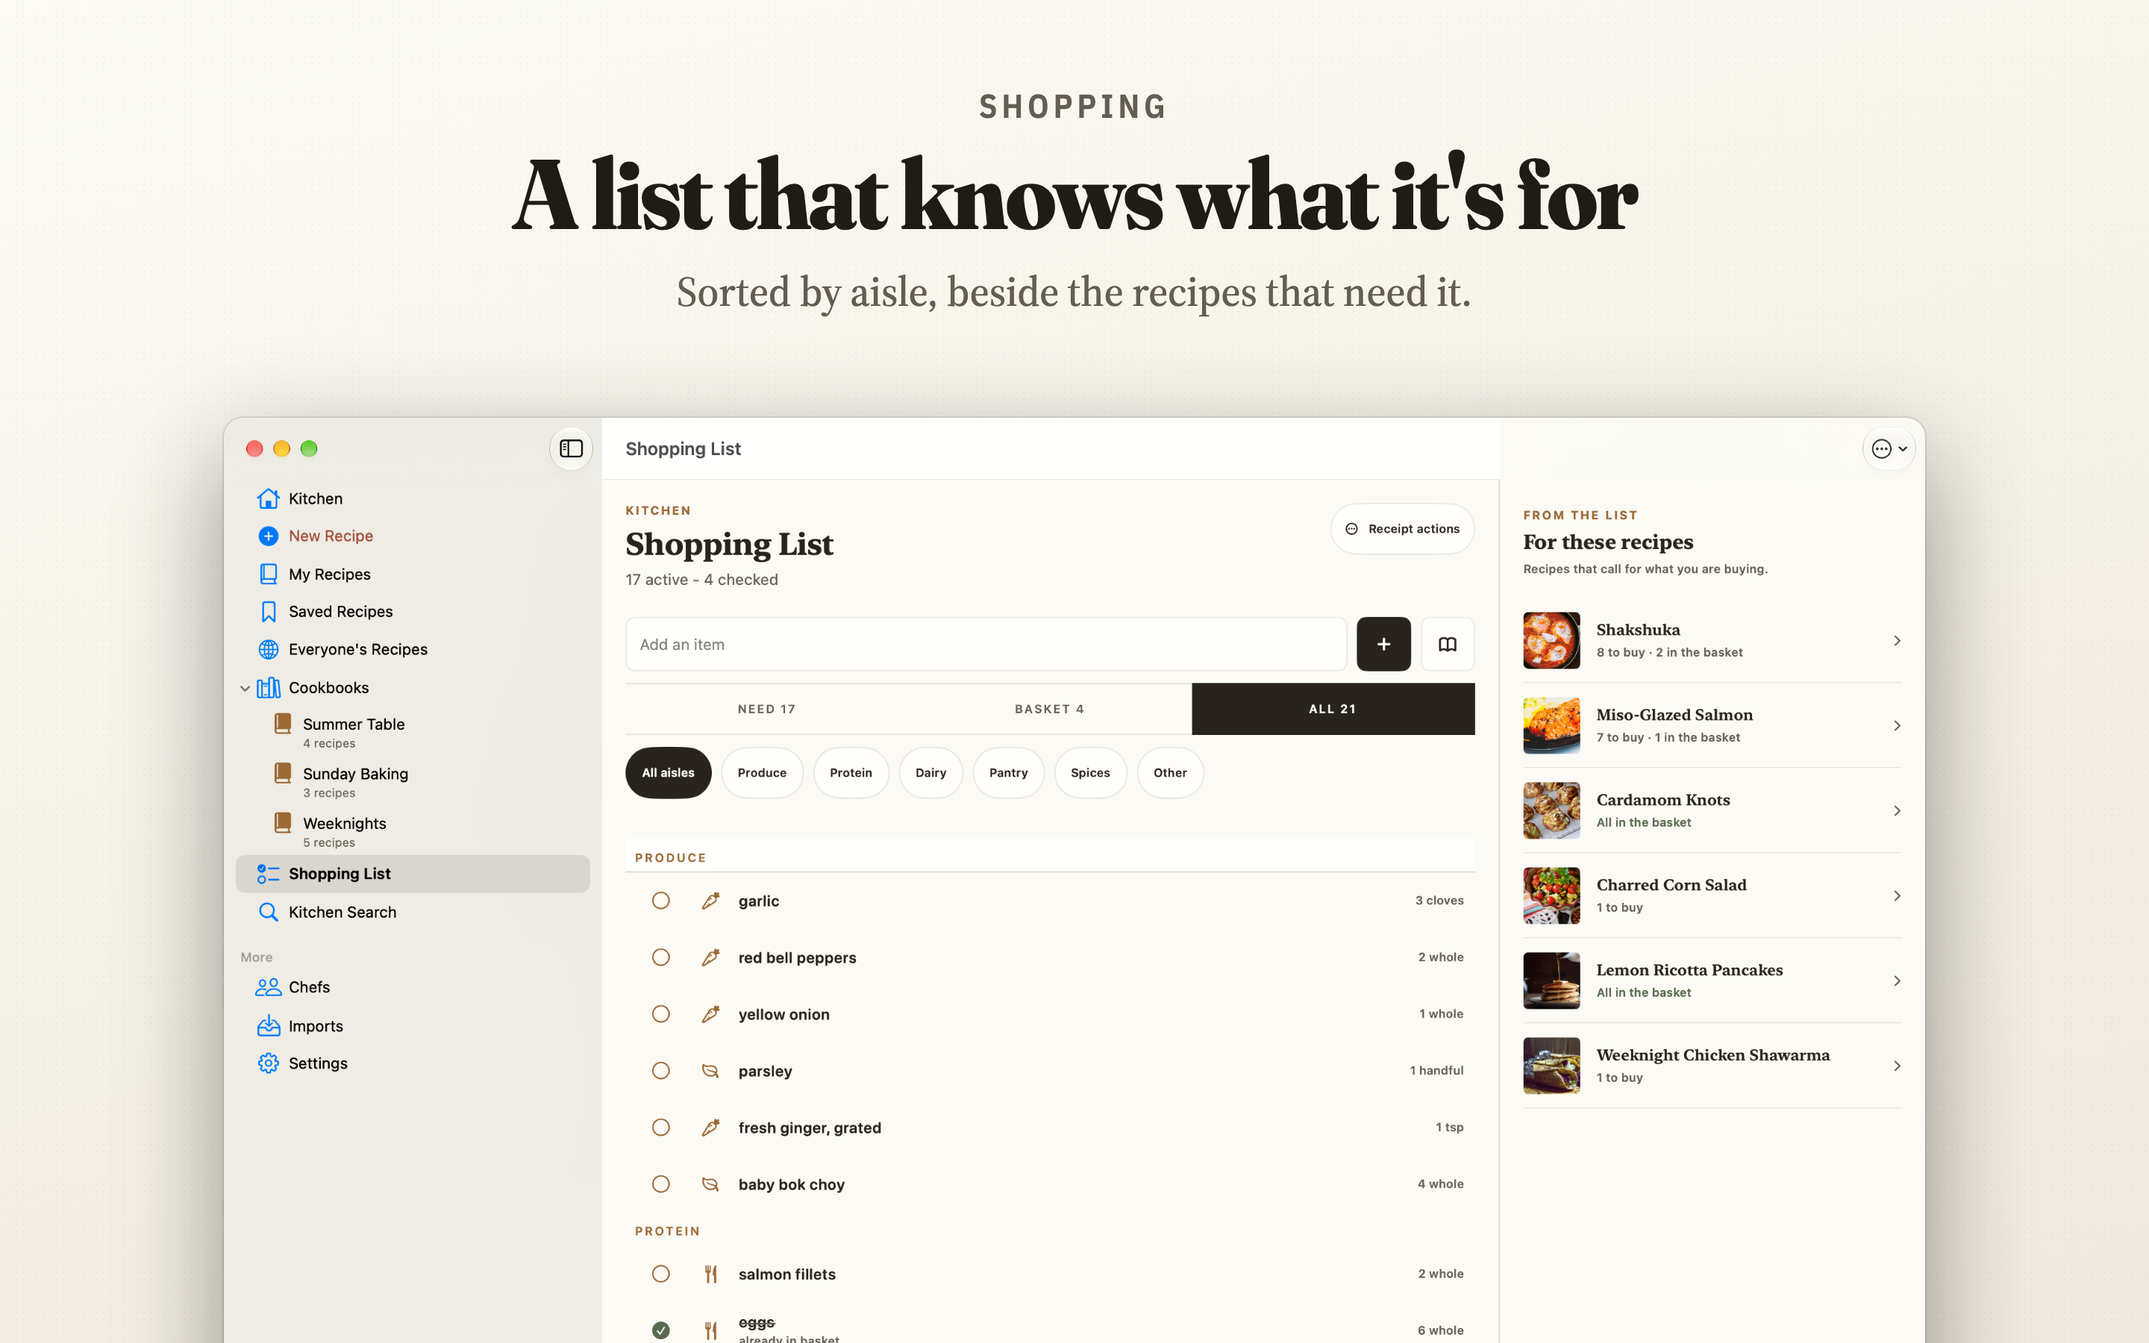
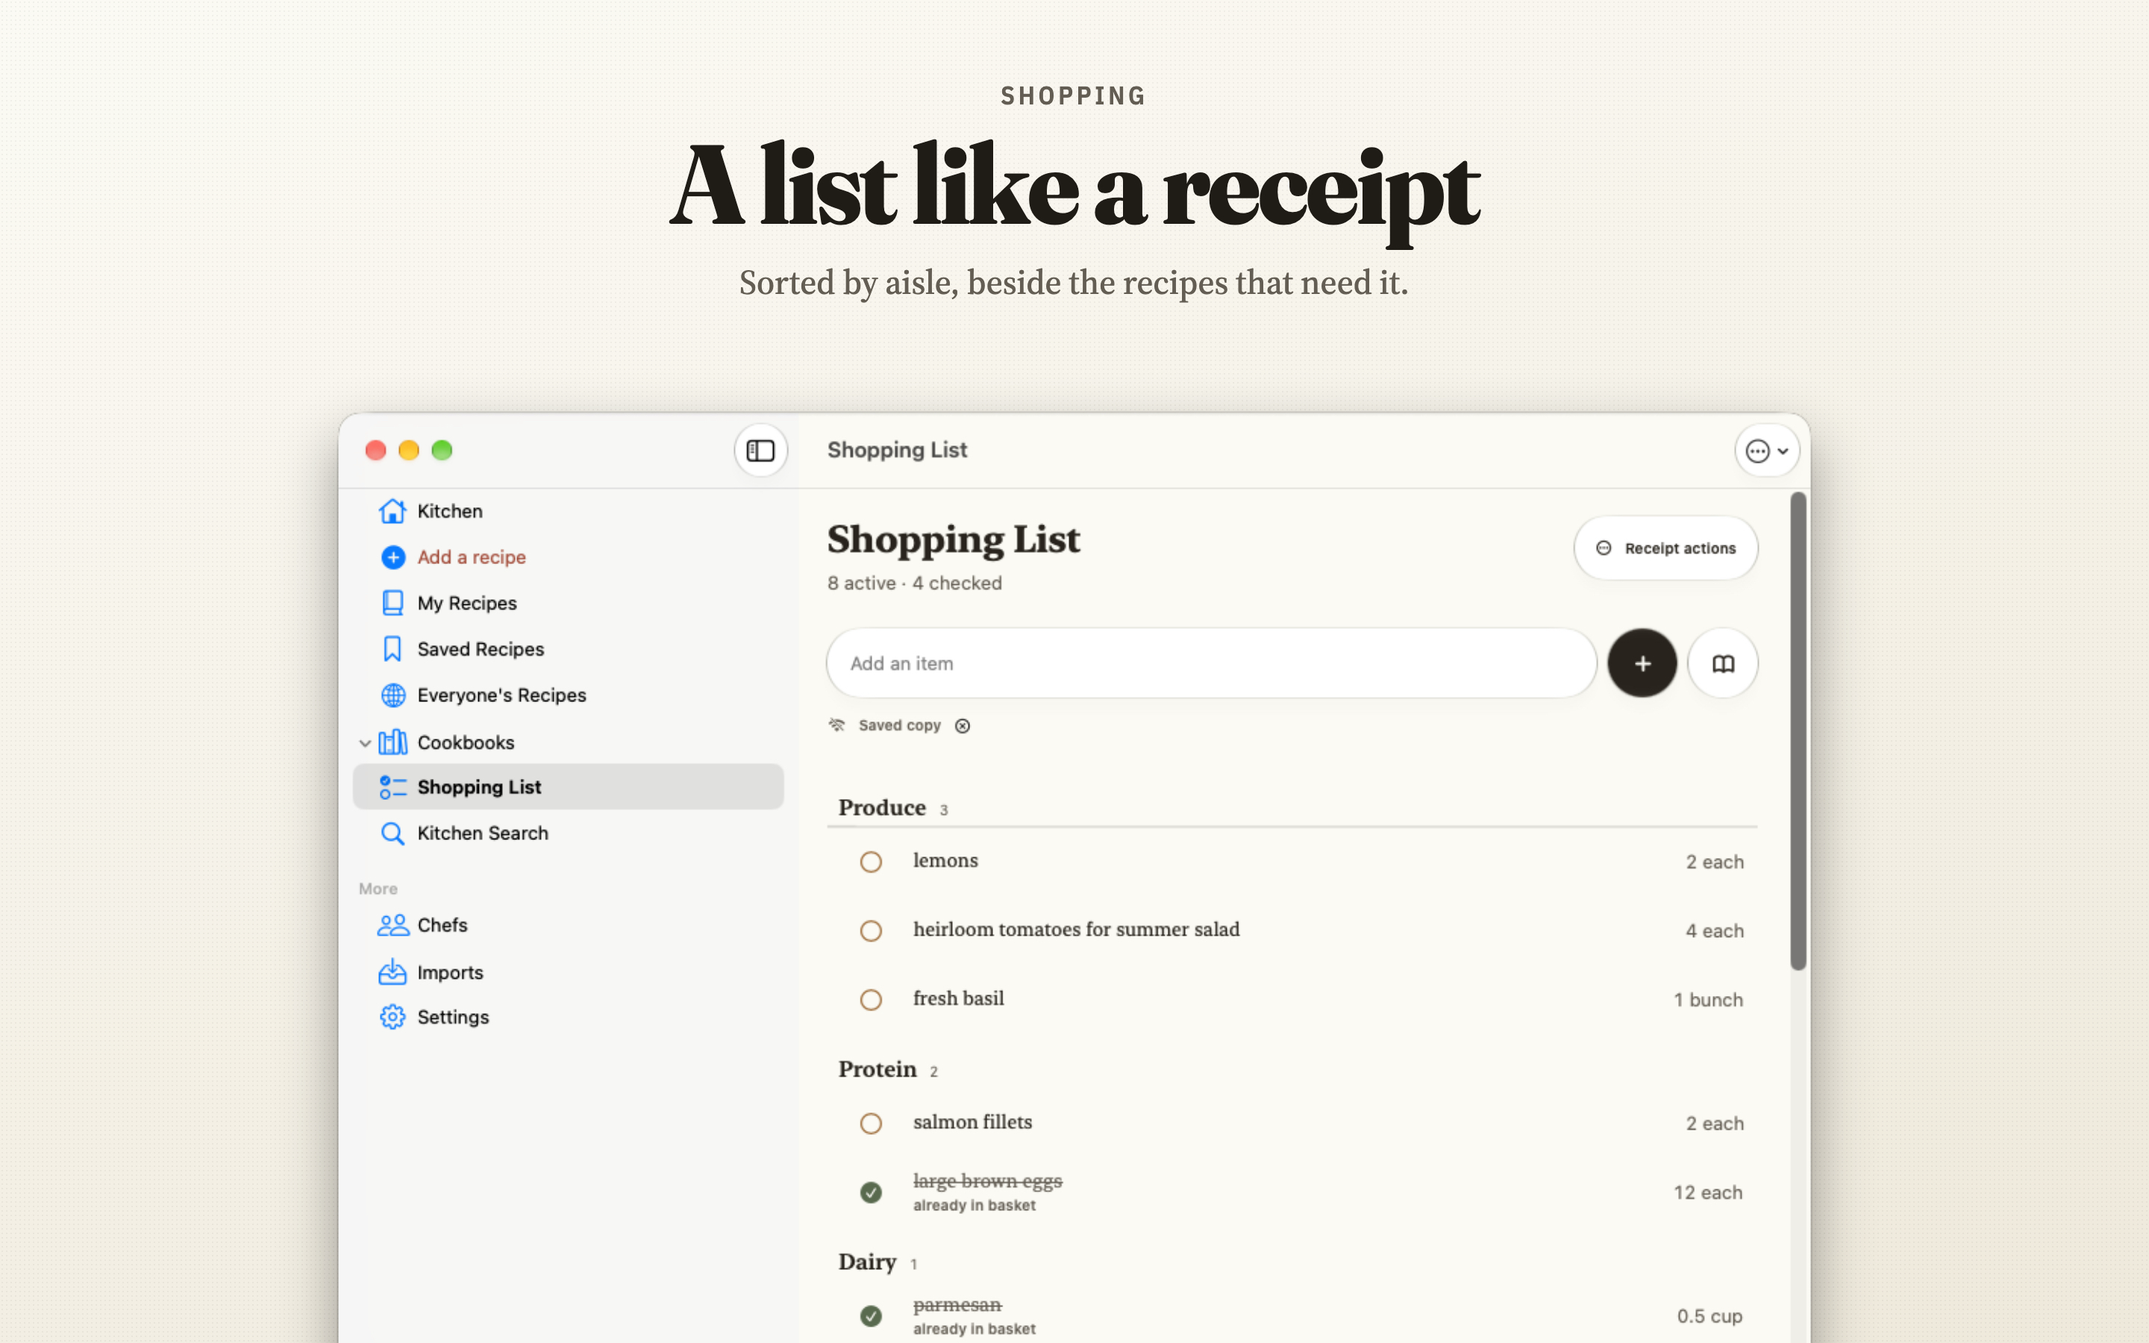
Ship 1.1: version, listing and screenshots (#193)
* Version 1.1: What's New, updated listing copy and a phased automatic release

Bumps MARKETING_VERSION to 1.1 and regenerates the project. The listing gets What's New for iOS and Mac, describes cook mode's one big step, the self-starting timer, voice commands and the Duo hinge, drops the removed Command-N recipe shortcut, and adds the new Siri phrases. Staging now creates an App Store phased release (7 days, automatic after approval) when listing.json asks for one.

* Build the app as 1.1: Info.plist reads MARKETING_VERSION

The app's Info.plist pinned 1.0, so a 1.1 build would still report 1.0 and
its widget (already on MARKETING_VERSION) would disagree with it. A listing
test now checks that the generator, the app and the widget all build the
listing's version.

* 1.1 App Store screenshots: the new design on iPhone, iPad and Mac

Captured from a 1.1 build in light mode at the default text size, with a
photo-led capture kitchen (CC0 Wikimedia photos). iPhone sets drop from 7
to 6 frames: the Duo frame is gone because the 1.0 store links no longer
resolve. iPad frames are portrait (2064x2752), which listing.json allows.

* Add the iPhone Duo frame to the 1.1 iPhone screenshots

05-duo shows the folded Duo's front screen on the marketing kitchen's
Lemon Pantry Pasta, captured by a cache-only fixture run on a hosted
runner. Cookbooks and recipes move to 06 and 07.

diff --git a/scripts/test/app_store_listing_test.rb b/scripts/test/app_store_listing_test.rb
@@ -2,6 +2,7 @@
 
 # Run: ruby scripts/test/app_store_listing_test.rb
 require "minitest/autorun"
+require "stringio"
 require "tmpdir"
 require "zlib"
 require_relative "../lib/app_store_listing"
@@ -96,11 +97,14 @@ class AppStoreListingTest < Minitest::Test
     steps = AppStoreListing.plan(listing: listing, snapshot: empty_snapshot, screenshots: shots,
                                  secrets: { "demoAccountName" => "johnnyappleseed", "demoAccountPassword" => "s3cret" })
     actions = steps.map { |s| s["action"] }
-    assert_equal %w[patch_app patch_categories patch_age_rating patch_app_info_localization create_version attach_build
-                    create_version_localization create_review_detail set_free_price set_availability sync_screenshots], actions
+    assert_equal %w[patch_app patch_categories patch_age_rating patch_app_info_localization create_version create_phased_release
+                    attach_build create_version_localization create_review_detail set_free_price set_availability sync_screenshots], actions
     refute(actions.any? { |a| a.include?("submi") })
+    create = steps.find { |s| s["action"] == "create_version" }
+    refute create["attributes"].key?("phasedRelease"), "phasedRelease is its own App Store Connect object, not a version attribute"
+    assert_equal "$version", steps.find { |s| s["action"] == "create_phased_release" }["versionId"]
     version_localization = steps.find { |s| s["action"] == "create_version_localization" }
-    refute version_localization["attributes"].key?("whatsNew"), "a first version cannot carry What's New"
+    assert_equal listing["localizations"]["en-US"]["whatsNew"], version_localization["attributes"]["whatsNew"]
     review = steps.find { |s| s["action"] == "create_review_detail" }
     assert_equal "johnnyappleseed", review["attributes"]["demoAccountName"]
     assert_equal "$version", review["versionId"]
@@ -123,7 +127,7 @@ class AppStoreListingTest < Minitest::Test
                      "ageRatingId" => "age1", "ageRating" => listing["ageRating"],
                      "localization" => { "id" => "il", "attributes" => fields.slice(*AppStoreListing::APP_INFO_LOCALIZATION_FIELDS) } },
       "version" => {
-        "id" => "v1", "attributes" => listing["version"], "buildId" => "build88",
+        "id" => "v1", "attributes" => listing["version"], "buildId" => "build88", "phasedRelease" => { "id" => "pr1" },
         "localization" => { "id" => "vl", "attributes" => fields.slice(*AppStoreListing::VERSION_LOCALIZATION_FIELDS) },
         "reviewDetail" => { "id" => "rd", "attributes" => listing["review"].slice(*AppStoreListing::REVIEW_FIELDS) },
         "screenshotSets" => { "APP_IPHONE_67" => { "id" => "set1", "checksums" => ["c1"] } }
@@ -182,8 +186,8 @@ class AppStoreListingTest < Minitest::Test
       errors = AppStoreListing.validate(mac_listing, dir)
       assert_equal ["mac/02-spread.png is 2752x2064; allowed: 2880x1800, 2560x1600, 1440x900, 1280x800"], errors
     end
-    copy = mac_listing["localizations"]["en-US"].values_at("description", "promotionalText").join("\n") + mac_listing["review"]["notes"]
-    ["Lock Screen", "Dynamic Island", "Duo", "hinge", "stays awake", "system timer", "tap"].each do |claim|
+    copy = mac_listing["localizations"]["en-US"].values_at("description", "promotionalText", "whatsNew").join("\n") + mac_listing["review"]["notes"]
+    ["Lock Screen", "Dynamic Island", "Duo", "hinge", "stays awake", "system timer", "tap", "Command-N", "iPhone Duo"].each do |claim|
       refute_includes copy, claim
     end
   end
@@ -200,16 +204,17 @@ class AppStoreListingTest < Minitest::Test
     steps = AppStoreListing.plan(listing: mac_listing, snapshot: mac_snapshot, screenshots: mac_shots,
                                  secrets: { "demoAccountName" => "johnnyappleseed", "demoAccountPassword" => "s3cret" })
     actions = steps.map { |s| s["action"] }
-    assert_equal %w[create_version attach_build create_version_localization create_review_detail sync_screenshots], actions
+    assert_equal %w[create_version create_phased_release attach_build create_version_localization create_review_detail sync_screenshots],
+                 actions
     assert_empty actions & APP_LEVEL_ACTIONS
     create = steps.first
-    assert_equal ["Create macOS version 1.0", "MAC_OS"], [create["summary"], create["platform"]]
-    assert_equal "macbuild2", steps[1]["buildId"]
-    localization = steps[2]["attributes"]
+    assert_equal ["Create macOS version 1.1", "MAC_OS"], [create["summary"], create["platform"]]
+    assert_equal "macbuild2", steps[2]["buildId"]
+    localization = steps[3]["attributes"]
     assert_equal mac_listing["localizations"]["en-US"]["description"], localization["description"]
     assert_equal "https://spoonjoy.app/support", localization["supportUrl"]
-    refute localization.key?("whatsNew")
-    assert_equal listing["mac"]["review"]["notes"], steps[3]["attributes"]["notes"]
+    assert_equal listing["mac"]["localizations"]["en-US"]["whatsNew"], localization["whatsNew"]
+    assert_equal listing["mac"]["review"]["notes"], steps[4]["attributes"]["notes"]
     assert_equal "APP_DESKTOP", steps.last["displayType"]
   end
 
@@ -222,11 +227,12 @@ class AppStoreListingTest < Minitest::Test
     }
     steps = AppStoreListing.plan(listing: mac, snapshot: mac_snapshot(version: version), screenshots: mac_shots,
                                  secrets: { "demoAccountPassword" => "s3cret" })
-    assert_equal %w[patch_version attach_build patch_version_localization create_review_detail sync_screenshots], steps.map { |s| s["action"] }
-    assert_equal({ "copyright" => "2026 Ari Mendelow", "releaseType" => "AFTER_APPROVAL" }, steps.first["attributes"])
+    assert_equal %w[patch_version create_phased_release attach_build patch_version_localization create_review_detail sync_screenshots],
+                 steps.map { |s| s["action"] }
+    assert_equal({ "versionString" => "1.1", "copyright" => "2026 Ari Mendelow", "releaseType" => "AFTER_APPROVAL" }, steps.first["attributes"])
 
     staged = version.merge(
-      "attributes" => mac["version"], "buildId" => "macbuild2",
+      "attributes" => mac["version"], "buildId" => "macbuild2", "phasedRelease" => { "id" => "macpr" },
       "localization" => { "id" => "macvl", "attributes" => fields.slice(*AppStoreListing::VERSION_LOCALIZATION_FIELDS) },
       "reviewDetail" => { "id" => "macrd", "attributes" => mac["review"].slice(*AppStoreListing::REVIEW_FIELDS) },
       "screenshotSets" => { "APP_DESKTOP" => { "id" => "macset", "checksums" => ["m1"] } }
@@ -359,6 +365,92 @@ class AppStoreListingTest < Minitest::Test
     source = File.read(File.join(ROOT, "scripts/lib/app_store_listing.rb")) + File.read(File.join(ROOT, "scripts/stage-app-store-listing.rb"))
     refute_match(/reviewSubmission/, source)
   end
+  def test_listing_ships_1_1_with_whats_new_and_a_phased_automatic_release
+    [listing, mac_listing].each do |platform_listing|
+      version = platform_listing["version"]
+      assert_equal ["1.1", "AFTER_APPROVAL", true], version.values_at("versionString", "releaseType", "phasedRelease")
+      whats_new = platform_listing["localizations"]["en-US"]["whatsNew"].to_s
+      refute_empty whats_new
+      assert_operator whats_new.length, :<=, AppStoreListing::LIMITS.fetch("whatsNew")
+    end
+    refute_equal listing["localizations"]["en-US"]["whatsNew"], mac_listing["localizations"]["en-US"]["whatsNew"]
+  end
+
+  # The build App Store Connect attaches must carry the listing's version, or the upload lands on the wrong version.
+  def test_the_app_and_widget_build_the_listing_version
+    generator = File.read(File.join(ROOT, "scripts/generate-xcode-project.rb"))
+    versions = generator.scan(/\["MARKETING_VERSION"\] = "([^"]+)"/).flatten.uniq
+    assert_equal [listing["version"]["versionString"]], versions
+    %w[Apps/Spoonjoy/Shared/Info.plist Apps/Spoonjoy/LiveActivity/Widget/Info.plist].each do |path|
+      plist = File.read(File.join(ROOT, path))
+      assert_match %r{<key>CFBundleShortVersionString</key>\s*<string>\$\(MARKETING_VERSION\)</string>}, plist, path
+    end
+  end
+
+  def test_listing_no_longer_promises_adding_a_recipe_in_the_app
+    copy = [listing["localizations"]["en-US"]["description"], mac_listing["localizations"]["en-US"]["description"]].join("\n")
+    refute_includes copy, "Command-N"
+    refute_match(/to add a recipe/i, copy)
+  end
+
+  def test_unwanted_or_existing_phased_release_plans_no_step
+    unwanted = JSON.parse(JSON.generate(mac_listing))
+    unwanted["version"]["phasedRelease"] = false
+    steps = AppStoreListing.plan(listing: unwanted, snapshot: mac_snapshot, screenshots: mac_shots, secrets: {})
+    refute_includes steps.map { |s| s["action"] }, "create_phased_release"
+  end
+
+  class FakeVersionClient
+    def get(path, _query = {})
+      case path
+      when "/v1/apps" then { "data" => [{ "id" => "app1" }] }
+      when "/v1/appStoreVersions/v1/appStoreVersionPhasedRelease"
+        { "data" => { "id" => "pr1", "attributes" => { "phasedReleaseState" => "INACTIVE" } } }
+      else { "data" => nil }
+      end
+    end
+
+    def get_all(path, _query = {})
+      return [] unless path == "/v1/apps/app1/appStoreVersions"
+
+      [{ "id" => "v1", "attributes" => { "appStoreState" => "PREPARE_FOR_SUBMISSION", "versionString" => "1.1",
+                                          "copyright" => "2026 Ari Mendelow", "releaseType" => "AFTER_APPROVAL" } }]
+    end
+  end
+
+  def test_reader_reads_the_versions_phased_release
+    version = AppStoreListing::Reader.new(FakeVersionClient.new, listing).send(:version)
+    assert_equal({ "id" => "pr1", "state" => "INACTIVE" }, version["phasedRelease"])
+  end
+
+  def test_reader_treats_a_missing_phased_release_as_none
+    client = Class.new(FakeVersionClient) do
+      def get(path, query = {})
+        raise AppStoreListing::Error, "HTTP 404 #{path}" if path.end_with?("/appStoreVersionPhasedRelease")
+
+        super
+      end
+    end.new
+    assert_nil AppStoreListing::Reader.new(client, listing).send(:version)["phasedRelease"]
+  end
+
+  def test_executor_creates_an_inactive_phased_release_for_the_new_version
+    posts = []
+    client = Object.new
+    client.define_singleton_method(:post) do |path, body|
+      posts << [path, body]
+      { "data" => { "id" => path == "/v1/appStoreVersions" ? "newv" : "newpr" } }
+    end
+    client.define_singleton_method(:get_all) { |_path, _query = {}| [{ "id" => "newvl" }] }
+    steps = [{ "action" => "create_version", "attributes" => { "versionString" => "1.1" }, "platform" => "IOS" },
+             { "action" => "create_phased_release", "versionId" => "$version" }]
+    AppStoreListing::Executor.new(client, "app1", log: StringIO.new).run(steps)
+    path, body = posts.last
+    assert_equal "/v1/appStoreVersionPhasedReleases", path
+    assert_equal({ data: { type: "appStoreVersionPhasedReleases", attributes: { phasedReleaseState: "INACTIVE" },
+                           relationships: { appStoreVersion: { data: { type: "appStoreVersions", id: "newv" } } } } }, body)
+  end
+
   def test_api_errors_include_associated_errors
     body = JSON.generate("errors" => [{ "title" => "not in valid state", "detail" => "check associated errors",
                                         "meta" => { "associatedErrors" => { "/v1/appStoreVersions/x" => [

diff --git a/scripts/lib/app_store_listing.rb b/scripts/lib/app_store_listing.rb
@@ -161,7 +161,8 @@ module AppStoreListing
     steps.concat(app_level_steps(listing, snapshot, fields, locale)) if app_level?(listing)
 
     version = snapshot["version"]
-    wanted_version = listing.fetch("version")
+    # phasedRelease is its own App Store Connect object, so it never travels as a version attribute.
+    wanted_version = listing.fetch("version").reject { |key, _| key == "phasedRelease" }
     if version.nil?
       platform = listing.fetch("platform")
       steps << { "action" => "create_version", "summary" => "Create #{PLATFORM_NAMES.fetch(platform)} version #{wanted_version['versionString']}",
@@ -174,6 +175,11 @@ module AppStoreListing
         steps << { "action" => "patch_version", "summary" => "Update version #{version_changes.keys.join(', ')}",
                    "versionId" => version["id"], "attributes" => version_changes }
       end
+    end
+
+    if listing.fetch("version")["phasedRelease"] == true && version["phasedRelease"].nil?
+      steps << { "action" => "create_phased_release", "summary" => "Release automatically in phases over 7 days",
+                 "versionId" => version["id"] }
     end
 
     build = snapshot["build"]
@@ -486,10 +492,20 @@ module AppStoreListing
         "id" => id,
         "attributes" => current["attributes"].slice("versionString", "copyright", "releaseType"),
         "buildId" => build && build["id"],
+        "phasedRelease" => phased_release(id),
         "localization" => localization && { "id" => localization["id"], "attributes" => localization["attributes"] },
         "reviewDetail" => review && { "id" => review["id"], "attributes" => review["attributes"] },
         "screenshotSets" => sets
       }
+    rescue Error => e
+      raise unless e.message.include?("HTTP 404")
+
+      nil
+    end
+
+    def phased_release(version_id)
+      data = @client.get("/v1/appStoreVersions/#{version_id}/appStoreVersionPhasedRelease")["data"]
+      data && { "id" => data["id"], "state" => data.dig("attributes", "phasedReleaseState") }
     rescue Error => e
       raise unless e.message.include?("HTTP 404")
 
@@ -614,6 +630,14 @@ module AppStoreListing
     def apply_patch_version(step)
       @client.patch("/v1/appStoreVersions/#{step['versionId']}",
                     data: { type: "appStoreVersions", id: step["versionId"], attributes: step["attributes"] })
+    end
+
+    # INACTIVE until the version is released; App Store Connect then runs the 7-day phased rollout.
+    def apply_create_phased_release(step)
+      @client.post("/v1/appStoreVersionPhasedReleases", data: {
+        type: "appStoreVersionPhasedReleases", attributes: { phasedReleaseState: "INACTIVE" },
+        relationships: { appStoreVersion: { data: { type: "appStoreVersions", id: ref(step["versionId"]) } } }
+      })
     end
 
     def apply_attach_build(step)

diff --git a/scripts/generate-xcode-project.rb b/scripts/generate-xcode-project.rb
@@ -113,7 +113,7 @@ def apply_common_settings(target, bundle_id:, product_name:, deployment_key:, de
       # development profiles.
       build_configuration.build_settings["SPOONJOY_APS_ENVIRONMENT"] = configuration == "Release" ? "production" : "development"
     end
-    build_configuration.build_settings["MARKETING_VERSION"] = "1.0"
+    build_configuration.build_settings["MARKETING_VERSION"] = "1.1"
     build_configuration.build_settings["CURRENT_PROJECT_VERSION"] = "32"
     build_configuration.build_settings[deployment_key] = deployment_targets.fetch(configuration)
     build_configuration.build_settings["ASSETCATALOG_COMPILER_APPICON_NAME"] = "AppIcon"
@@ -240,7 +240,7 @@ def apply_widget_settings(target)
     build_configuration.build_settings["SWIFT_ACTIVE_COMPILATION_CONDITIONS"] = configuration == "Release" ? WIDGET_COMPILATION_CONDITION : "DEBUG #{WIDGET_COMPILATION_CONDITION}"
     build_configuration.build_settings["GENERATE_INFOPLIST_FILE"] = "NO"
     build_configuration.build_settings["INFOPLIST_FILE"] = WIDGET_INFO_PLIST
-    build_configuration.build_settings["MARKETING_VERSION"] = "1.0"
+    build_configuration.build_settings["MARKETING_VERSION"] = "1.1"
     build_configuration.build_settings["CURRENT_PROJECT_VERSION"] = "32"
     build_configuration.build_settings["IPHONEOS_DEPLOYMENT_TARGET"] = configuration == "BootstrapDebug" ? "26.5" : "27.0"
     build_configuration.build_settings["SKIP_INSTALL"] = "YES"
